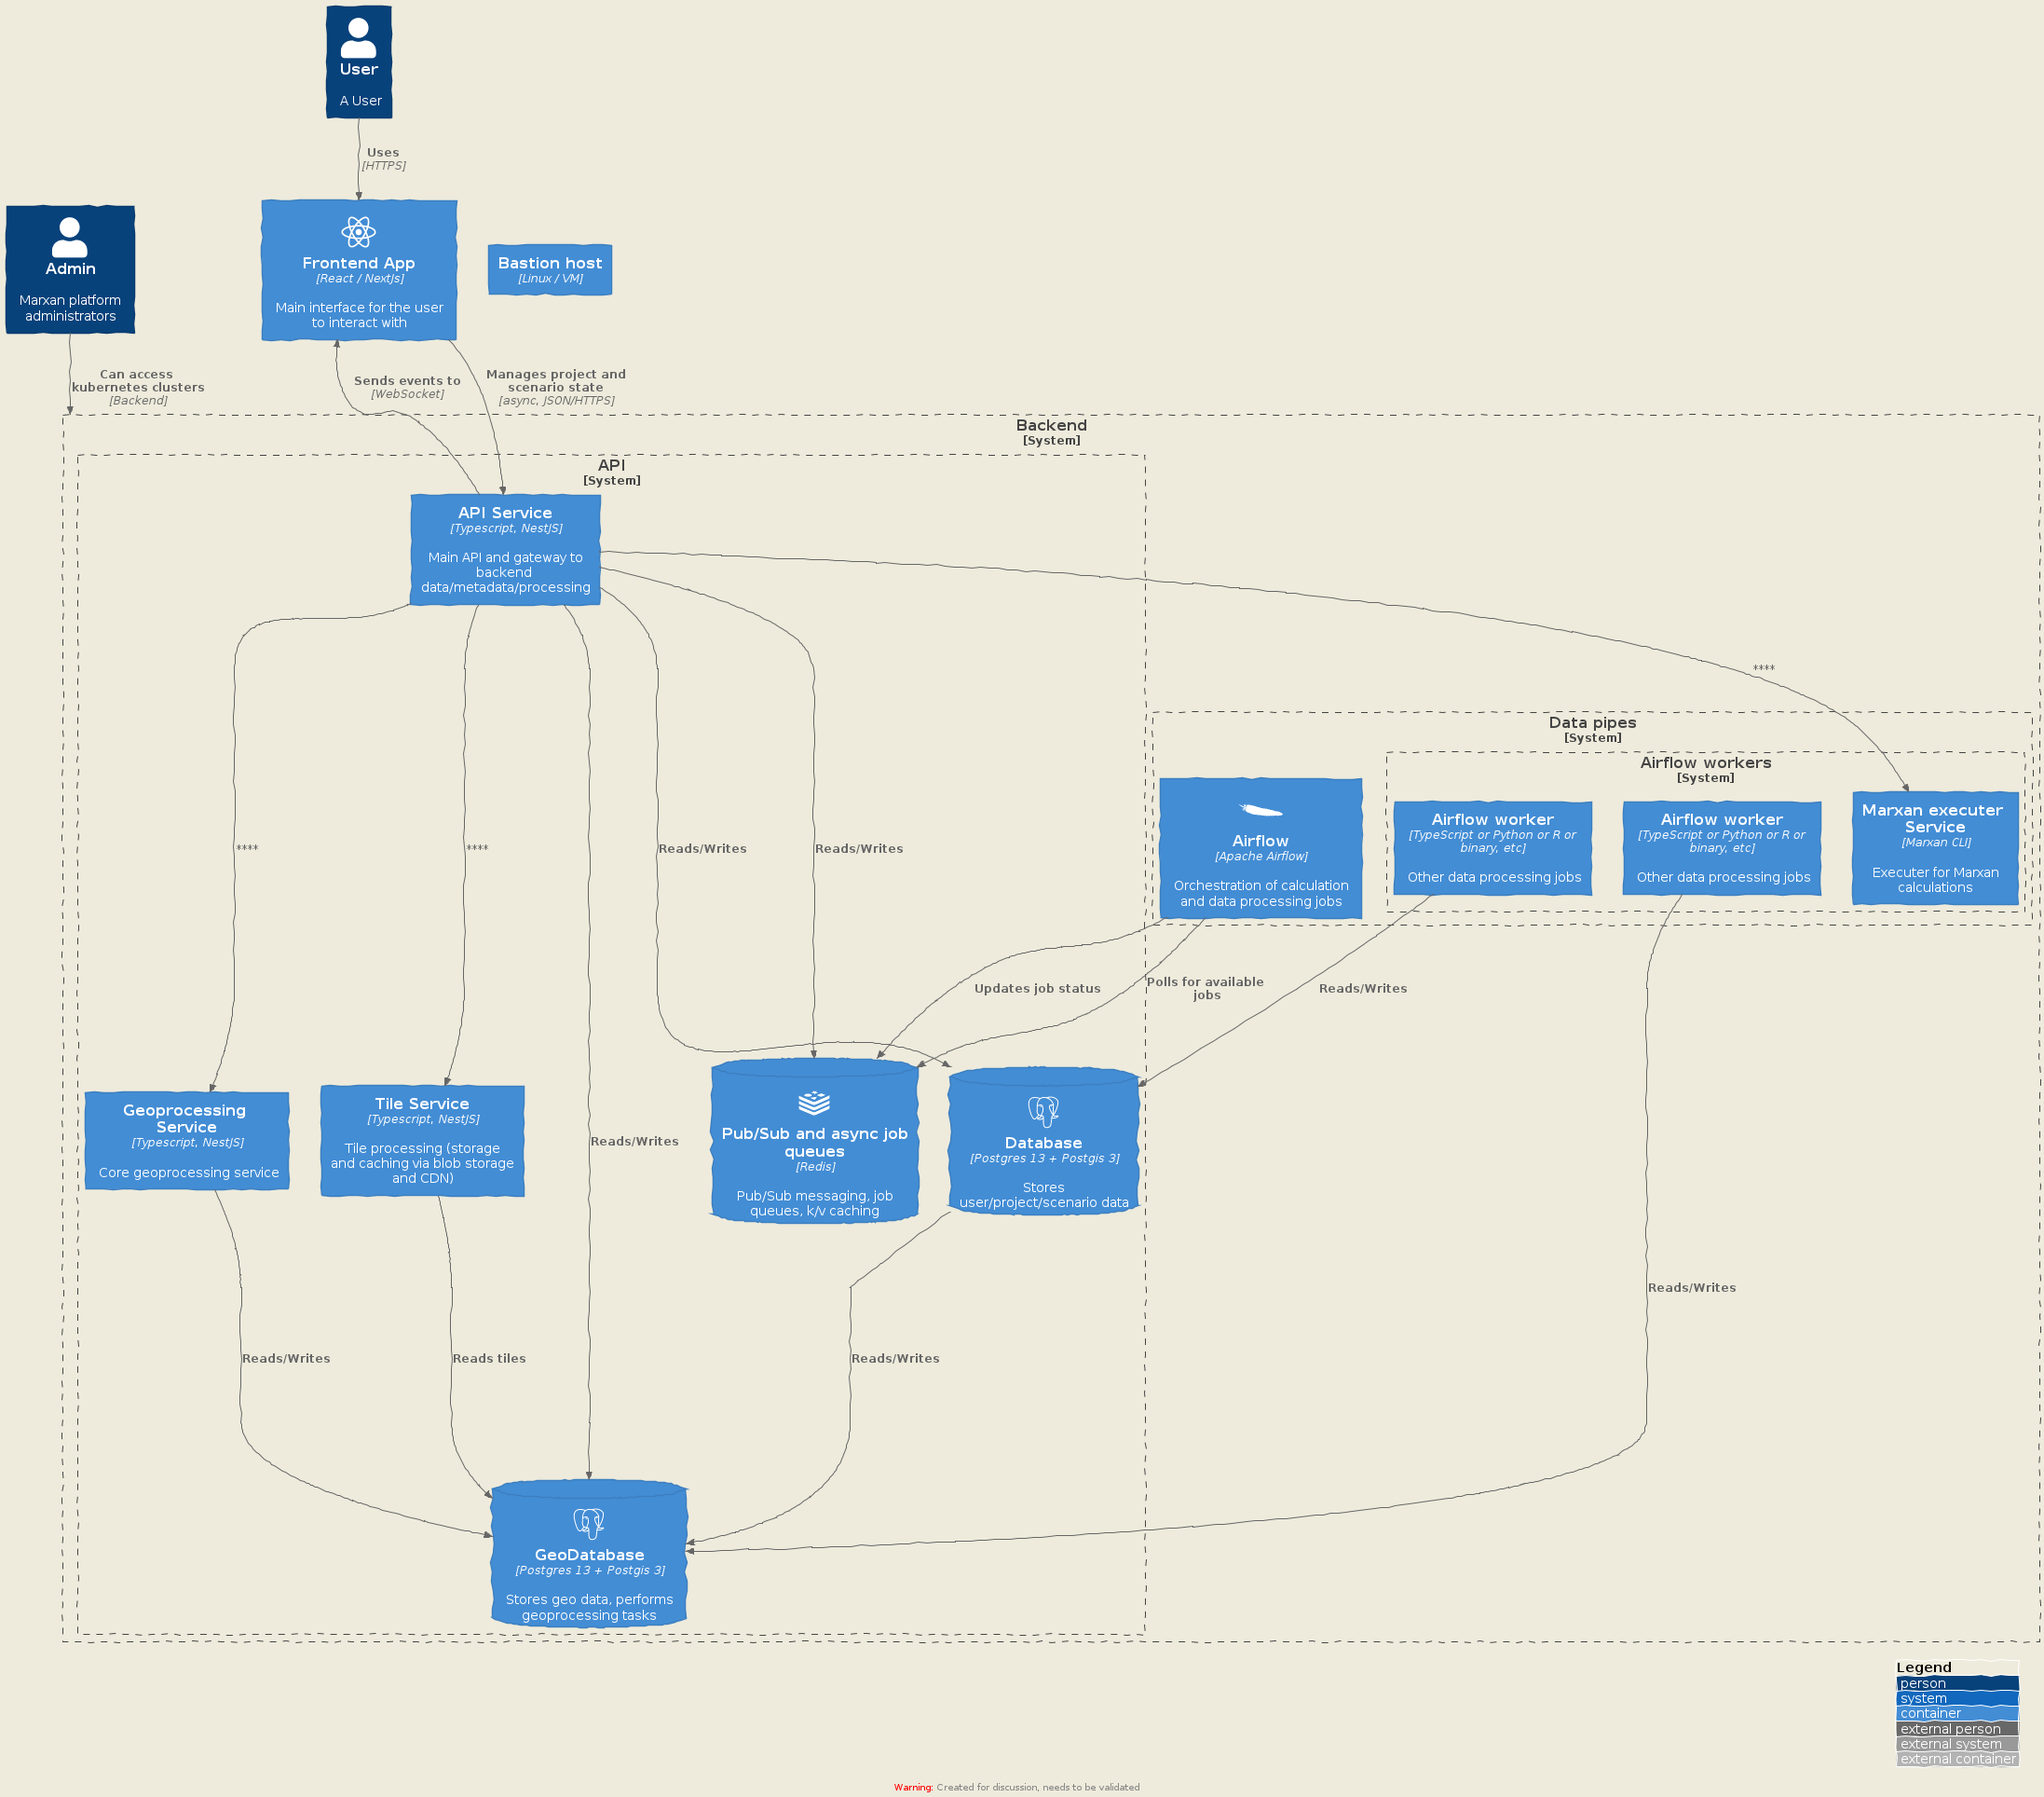
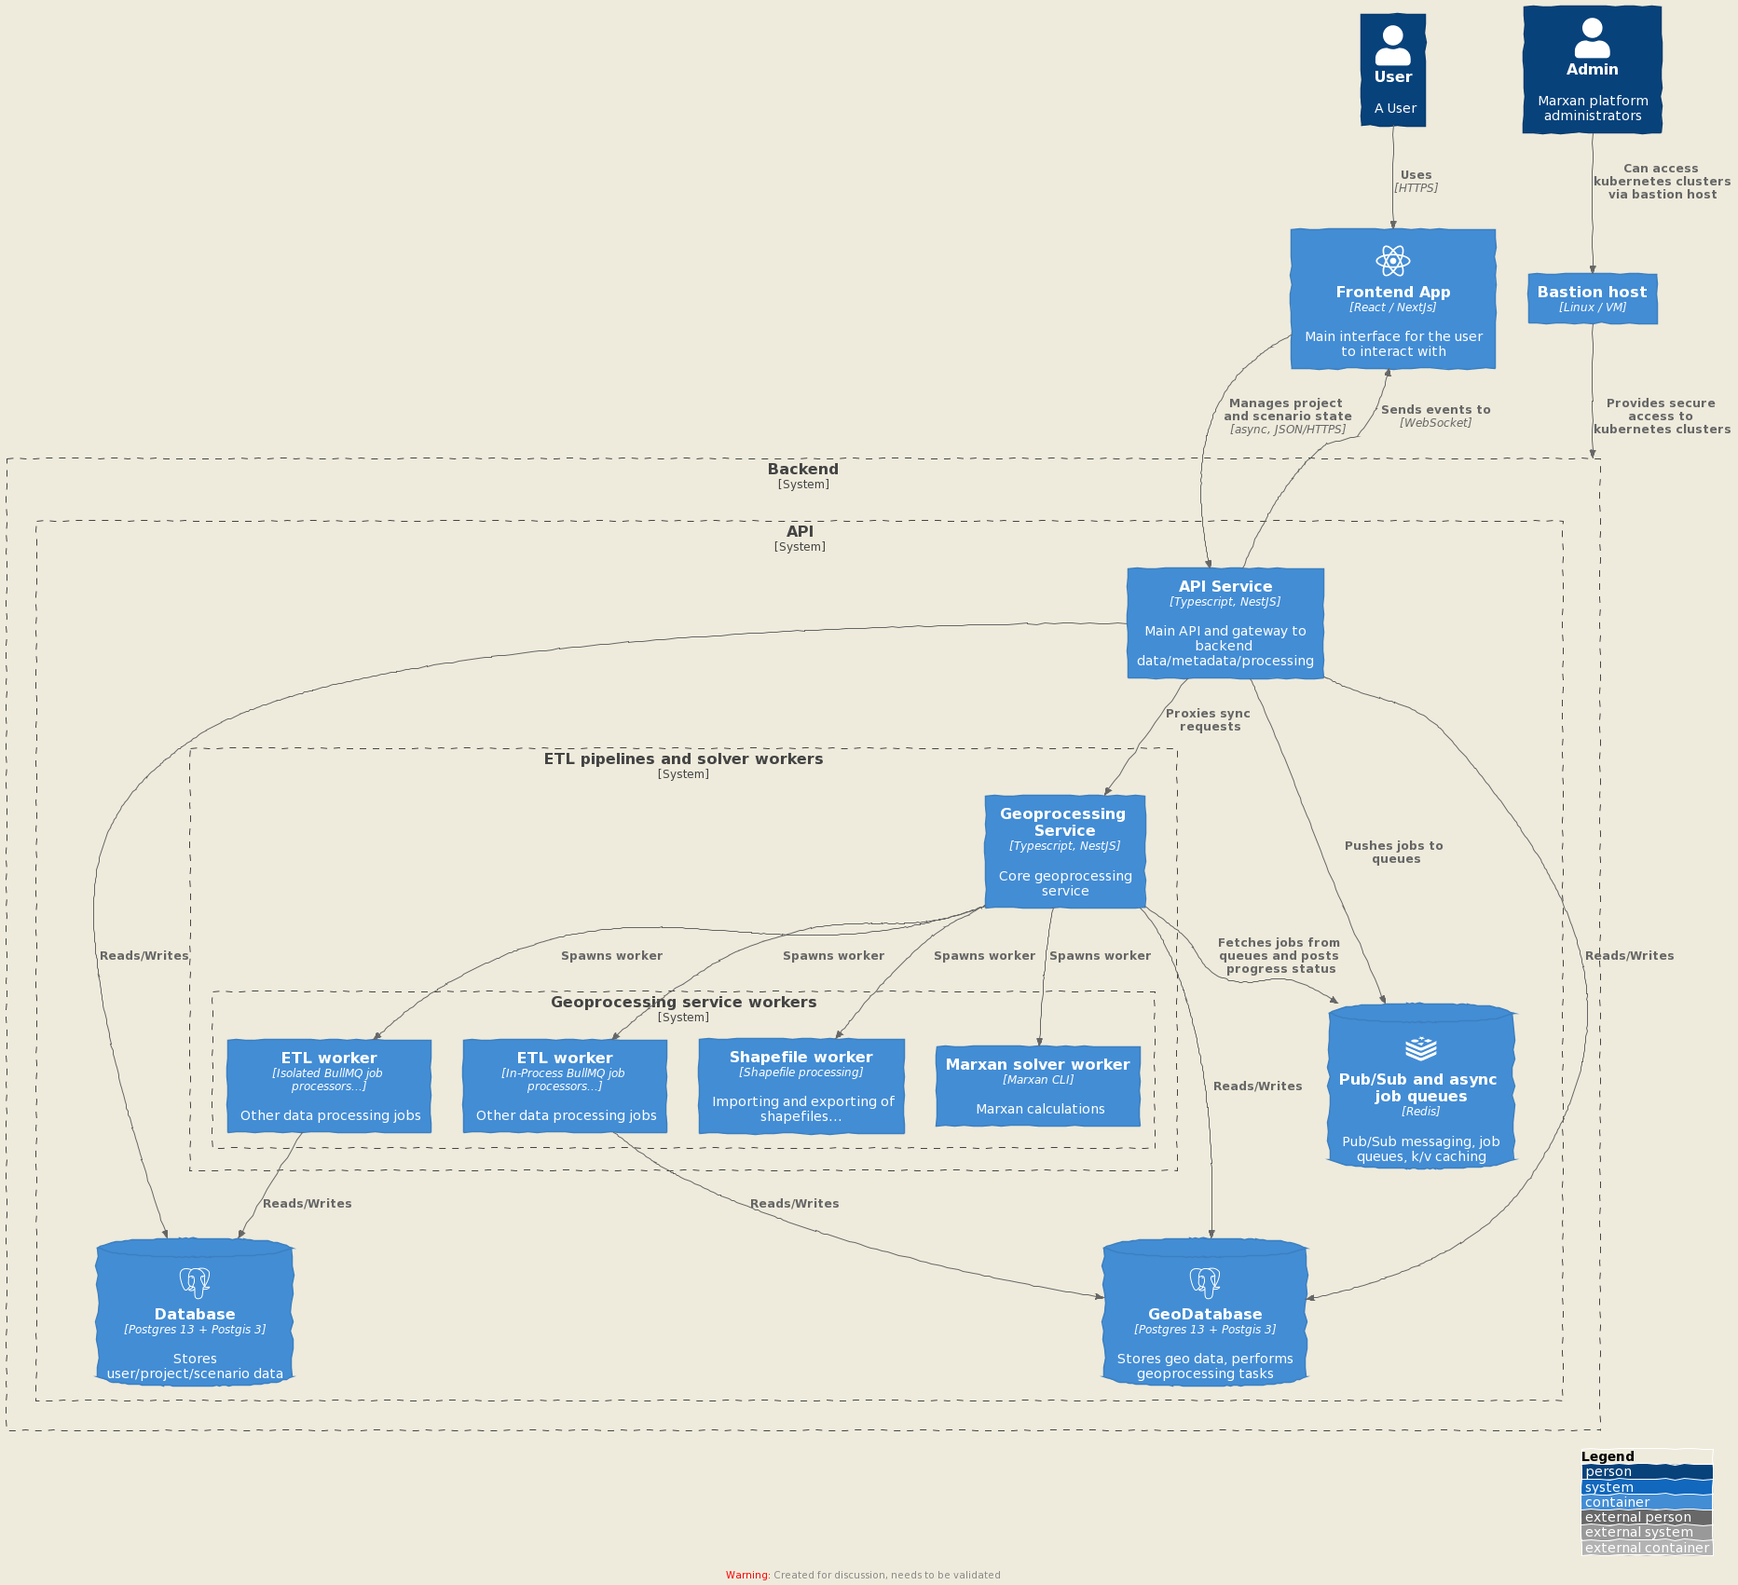
update main README and associated architecture diagram

diff --git a/README.md b/README.md
@@ -15,14 +15,12 @@ Microservices are set up to be run via Docker Compose for local development.
 In CI, testing, staging and production environments, microservices are
 orchestrated via Kubernetes (forthcoming).
 
-## Architecture (TBD)
-![Backend architecture](http://www.plantuml.com/plantuml/proxy?cache=no&src=https://raw.githubusercontent.com/Vizzuality/marxan-cloud/develop/marxan-api-architecture.puml)
+## Platform architecture
 
-[Frontend architecture (TBD)]()
+See [ARCHITECTURE_infrastructure.md](./docs/ARCHITECTURE_infrastructure.md) for
+details.
 
-![Data management architecture](http://www.plantuml.com/plantuml/proxy?cache=no&src=https://raw.githubusercontent.com/Vizzuality/marxan-cloud/develop/marxan-data-processing-architecture.puml)
-
-[DB data model](https://dbdiagram.io/embed/5ff8693580d742080a358e7f)
+![Backend architecture](./docs/ARCHITECTURE_infrastructure/marxan-contexts.png)
 
 ### Prerequisites
 
